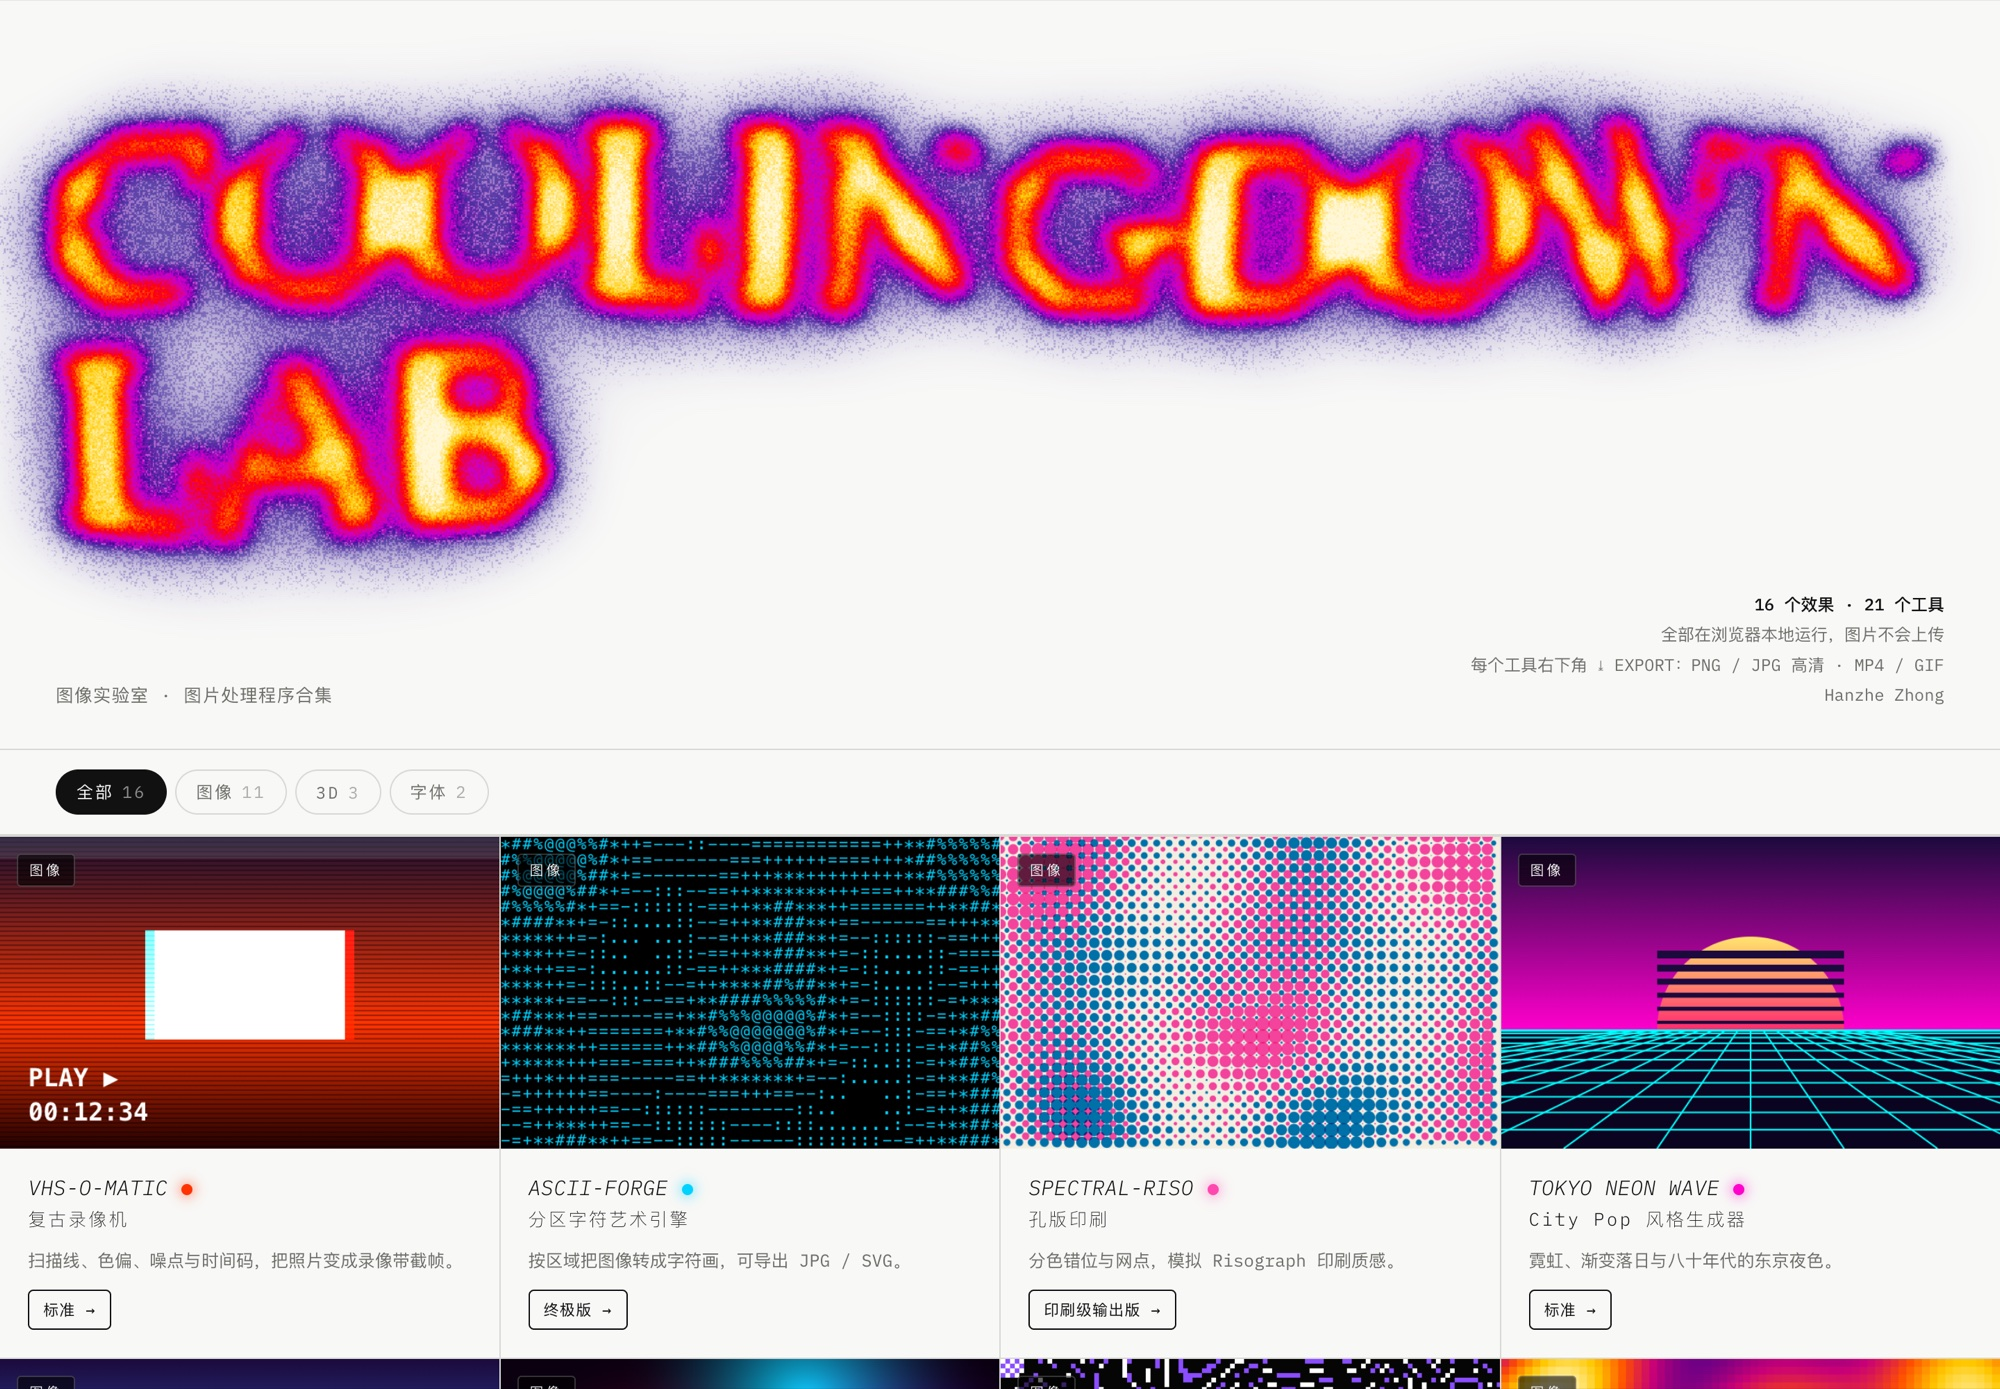
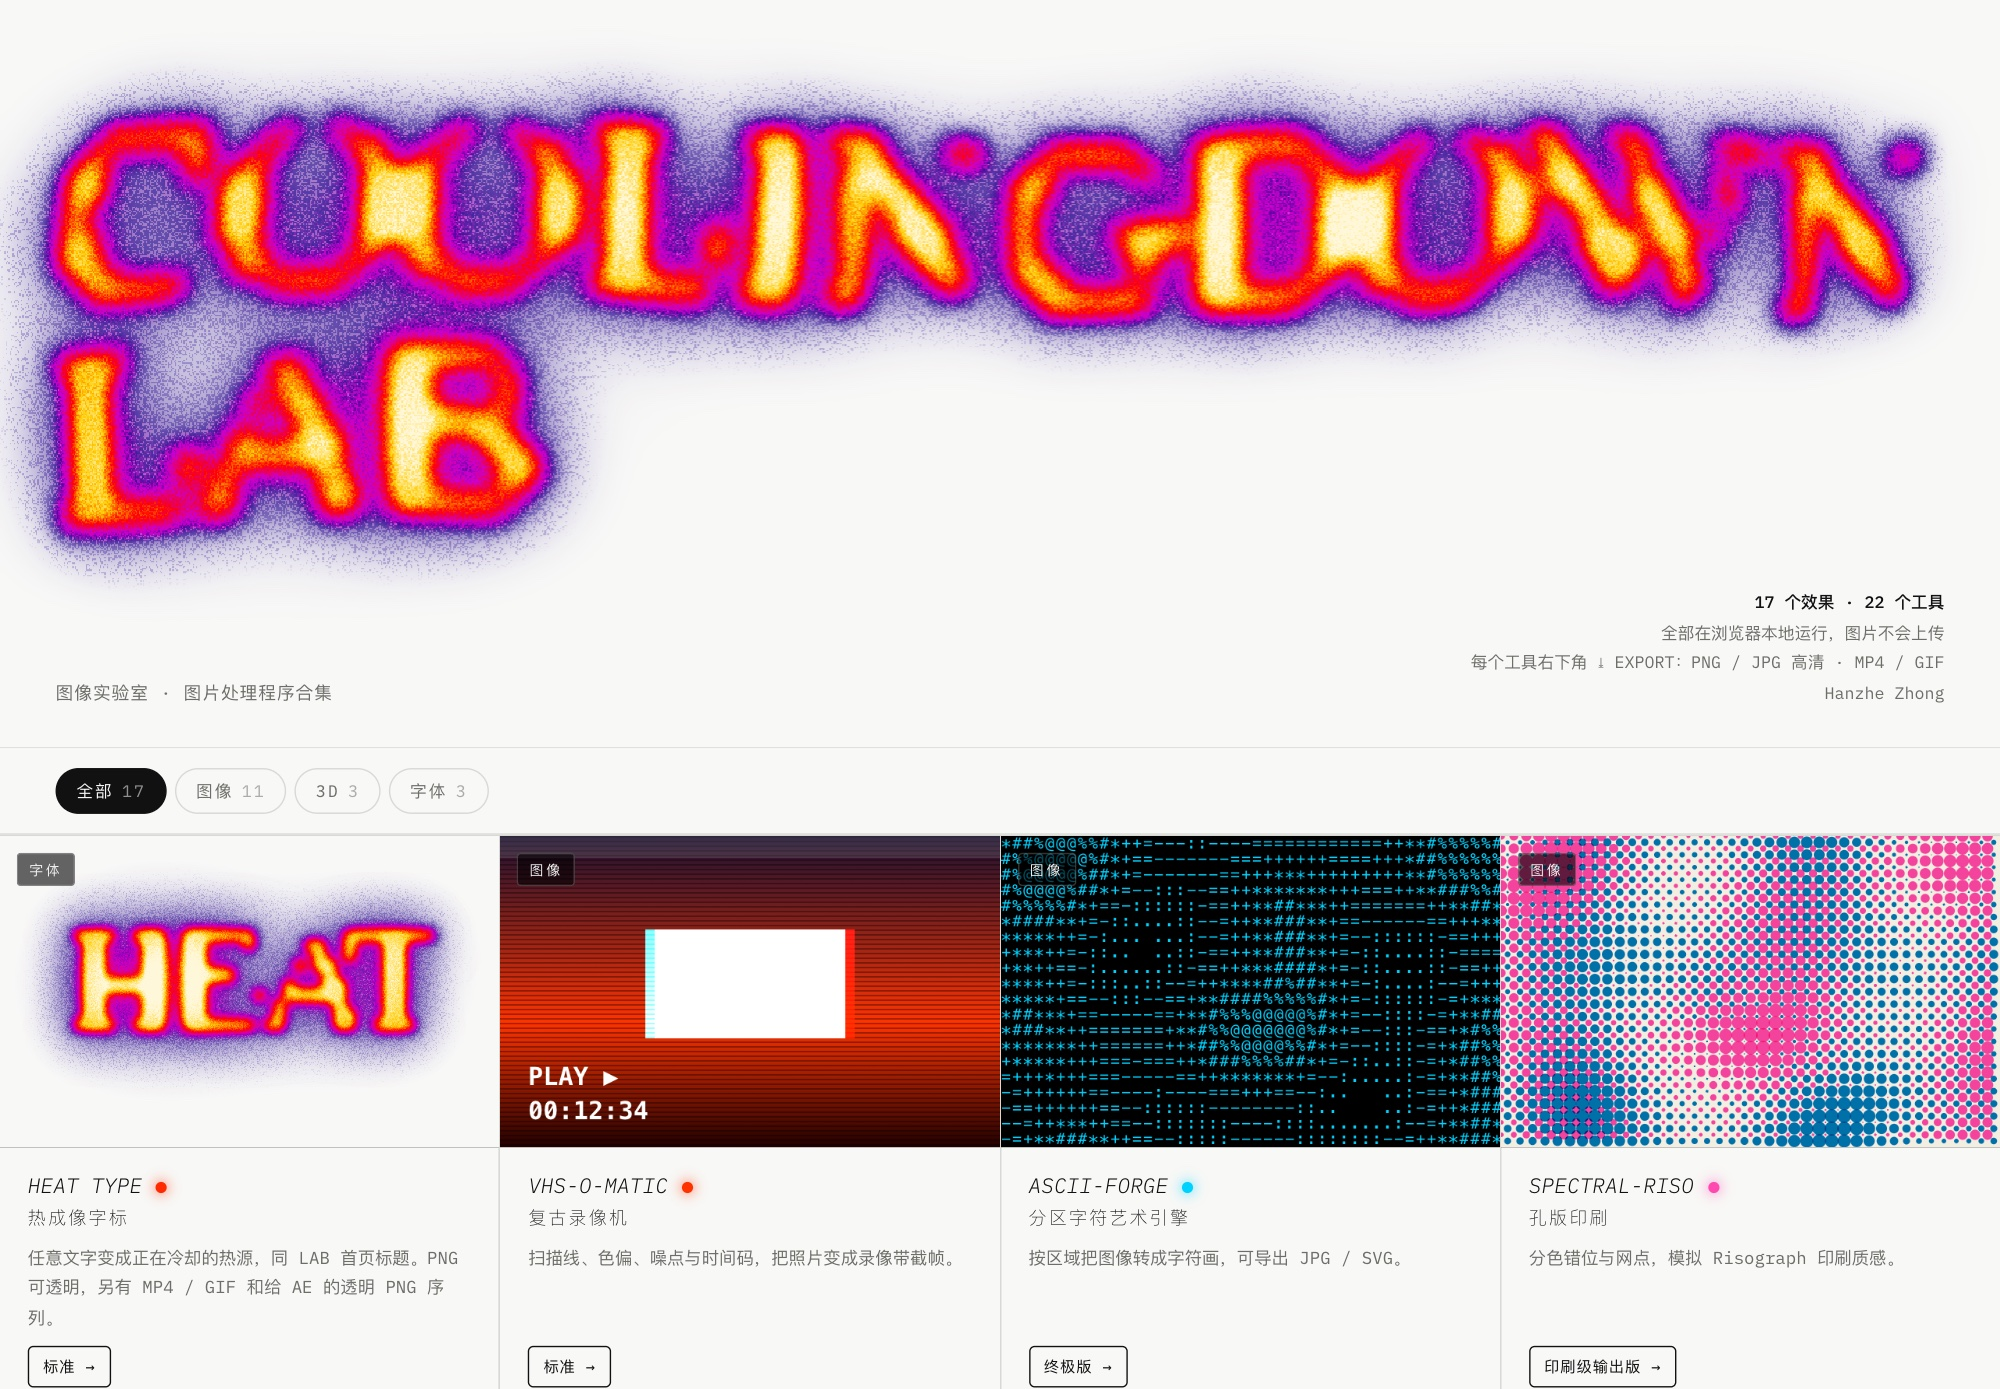
LAB section: 17 effects / 22 tools, HEAT TYPE first, new cover

diff --git a/index.html b/index.html
@@ -77,7 +77,7 @@
     <h2>实验室</h2>
   </div>
   <a href="https://zhonghanzhe.github.io/coolingdown-lab/" target="_blank" rel="noopener" class="lab-cover card-link">
-    <img src="assets/projects/lab-cover.jpg" alt="COOLINGDOWN LAB 图像实验室首页，16 个图像、3D 与字体效果" loading="lazy">
+    <img src="assets/projects/lab-cover.jpg" alt="COOLINGDOWN LAB 图像实验室首页，17 个图像、3D 与字体效果，第一个是热成像字标 HEAT TYPE" loading="lazy">
   </a>
   <div class="card-body lab-title">
     <h3 class="card-label"><em>COOLINGDOWN LAB</em>, <span class="card-date">2026.2</span></h3>
@@ -91,9 +91,9 @@
       <a href="https://zhonghanzhe.github.io/coolingdown-lab/" target="_blank" rel="noopener" class="lab-open">Open the Lab / 打开实验室 ↗</a>
     </div>
     <ul class="about-facts">
-      <li><strong>DESIGN / 设计</strong><span>16 种效果，分为图像、3D、字体三类：录像带、孔版印刷、热成像、字符画、液态金属字体等</span></li>
-      <li><strong>BUILD / 开发</strong><span>21 个工具页面 · HTML、Canvas、WebGL（Three.js）· AI Coding 辅助开发<br>无需后端，图片只在浏览器本地处理，不会上传</span></li>
-      <li><strong>SHIP / 上线</strong><span>公开上线，免费使用<br>统一导出面板：PNG / JPG 高清，8 个动态工具另有 MP4 / GIF</span></li>
+      <li><strong>DESIGN / 设计</strong><span>17 种效果，分为图像、3D、字体三类：热成像字标、录像带、孔版印刷、热成像、字符画、液态金属字体等</span></li>
+      <li><strong>BUILD / 开发</strong><span>22 个工具页面 · HTML、Canvas、WebGL（Three.js）· AI Coding 辅助开发<br>无需后端，图片只在浏览器本地处理，不会上传</span></li>
+      <li><strong>SHIP / 上线</strong><span>公开上线，免费使用<br>统一导出面板：PNG / JPG 高清，9 个动态工具另有 MP4 / GIF<br>热成像字标可导出透明 PNG 与 PNG 序列，供设计师继续加工</span></li>
     </ul>
   </div>
 </section>
